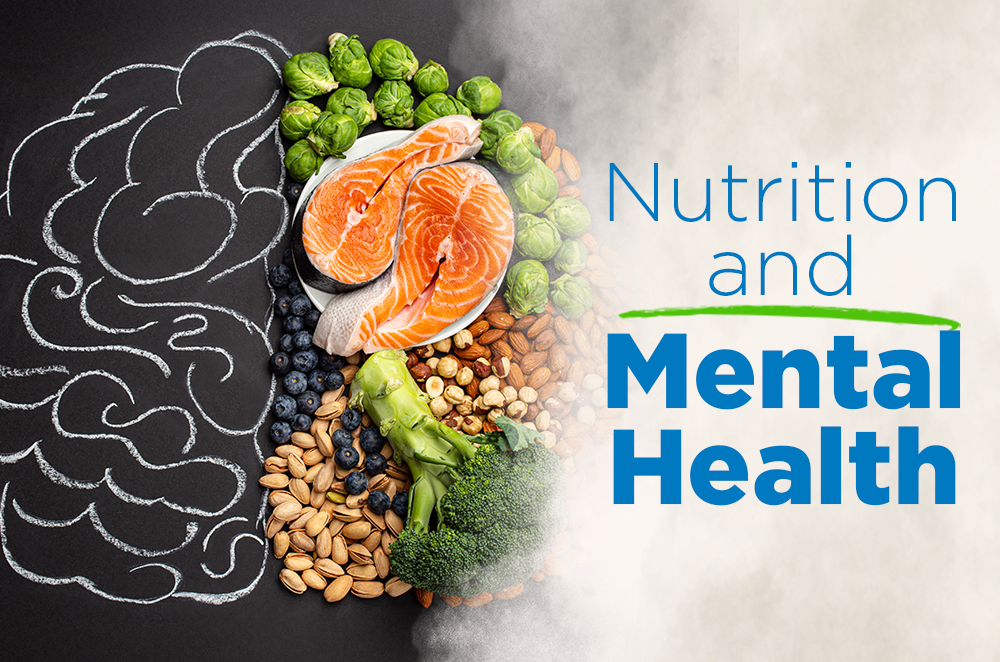
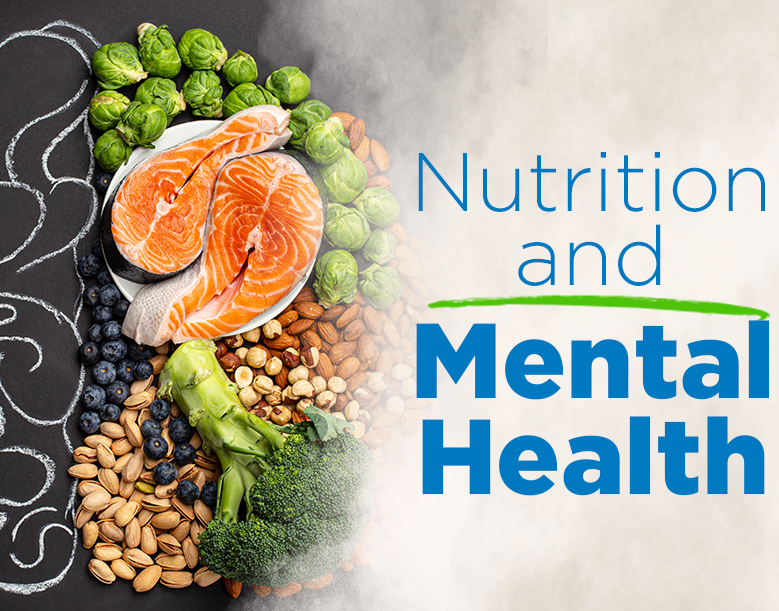
added images and resize cards

diff --git a/yourcourse.html b/yourcourse.html
@@ -53,7 +53,8 @@
                 <span class="hero-part-2">Placeholder text</span>
             </h1>
             <div class="text-center">
-                <a href="https://www.mind.org.uk/need-urgent-help/using-this-tool/" class="btn btn-light btn-lg" role="button" tabindex="0">Get Help Now</a>
+                <a href="https://www.mind.org.uk/need-urgent-help/using-this-tool/" class="btn btn-light btn-lg"
+                    role="button" tabindex="0">Get Help Now</a>
             </div>
         </div>
     </header>
@@ -68,44 +69,54 @@
                     <div class="col-lg-6 col-md-6 mb-4 d-flex align-items-stretch justify-content-center">
                         <div class="card shadow" tabindex="0">
                             <a href="https://www.sleepfoundation.org/mental-health" target="_blank">
-                                <img src="assets/images/sleep.webp" alt="Sleep" class="card-img-top img-fluid" style="height: auto; width: 100%;">
+                                <img src="assets/images/sleep.webp" alt="Sleep" class="card-img-top img-fluid"
+                                    style="height: auto; width: 100%;">
                             </a>
                             <div class="card-body">
                                 <h5 class="card-title">Sleep</h5>
-                                <p class="card-text">Placeholder.</p>
+                                <p class="card-text">Good sleep is essential for your mental
+                                    wellbeing.</p>
                             </div>
                         </div>
                     </div>
                     <div class="col-lg-6 col-md-6 mb-4 d-flex align-items-stretch justify-content-center">
                         <div class="card shadow" tabindex="0">
-                            <a href="https://www.nhs.uk/every-mind-matters/mental-wellbeing-tips/be-active-for-your-mental-health/" target="_blank">
-                                <img src="assets/images/mateswalk.jpg" alt="Group Run" class="card-img-top img-fluid" style="height: auto; width: 100%;">
+                            <a href="https://www.nhs.uk/every-mind-matters/mental-wellbeing-tips/be-active-for-your-mental-health/"
+                                target="_blank">
+                                <img src="assets/images/mateswalk.jpg" alt="Group Run" class="card-img-top img-fluid"
+                                    style="height: auto; width: 100%;">
                             </a>
                             <div class="card-body">
                                 <h5 class="card-title">Exercise</h5>
-                                <p class="card-text">Placeholder</p>
+                                <p class="card-text">Regular physical activity can improve your mood and reduce feelings
+                                    of anxiety.</p>
                             </div>
                         </div>
                     </div>
                     <div class="col-lg-6 col-md-6 mb-4 d-flex align-items-stretch justify-content-center">
                         <div class="card shadow" tabindex="0">
-                            <a href="https://www.mentalhealth.org.uk/explore-mental-health/a-z-topics/mindfulness" target="_blank">
-                                <img src="assets/images/mindful.jpg" class="card-img-top img-fluid" alt="Calm Pebbles" style="height: auto; width: 100%;">
+                            <a href="https://www.mentalhealth.org.uk/explore-mental-health/a-z-topics/mindfulness"
+                                target="_blank">
+                                <img src="assets/images/mindful.jpg" class="card-img-top img-fluid" alt="Calm Pebbles"
+                                    style="height: auto; width: 100%;">
                             </a>
                             <div class="card-body">
                                 <h5 class="card-title">Rest and Reset</h5>
-                                <p class="card-text">Placeholder text</p>
+                                <p class="card-text">Techniques like meditation, deep breathing, or yoga can help you stay grounded and reduce anxiety.</p>
                             </div>
                         </div>
                     </div>
                     <div class="col-lg-6 col-md-6 mb-4 d-flex align-items-stretch justify-content-center">
                         <div class="card shadow" tabindex="0">
-                            <a href="https://www.mentalhealth.org.uk/explore-mental-health/a-z-topics/diet-and-mental-health" target="_blank">
-                                <img src="assets/images/nutritionmh.png" class="card-img-top img-fluid" alt="Nutrition and Mental Health" style="height: auto; width: 100%;">
+                            <a href="https://www.mentalhealth.org.uk/explore-mental-health/a-z-topics/diet-and-mental-health"
+                                target="_blank">
+                                <img src="assets/images/nutritionmh.png" class="card-img-top img-fluid"
+                                    alt="Nutrition and Mental Health" style="height: auto; width: 100%;">
                             </a>
                             <div class="card-body">
                                 <h5 class="card-title">Nutrition and Mental Health</h5>
-                                <p class="card-text">Nutrition is essential for mental health because it provides the nutrients the brain needs to function optimally. A balanced diet improves mood, reduces stress, and supports cognitive function.</p>
+                                <p class="card-text">Nutrition is essential for mental health because it provides the
+                                    nutrients the brain needs to function optimally.</p>
                             </div>
                         </div>
                     </div>
@@ -115,27 +126,29 @@
     </main>
 
     <!-- Footer -->
- <footer class="footer text-center text-lg-start py-3 mt-auto fixed-bottom">
-    <div class="container">
-        <div class="row">
-            <div class="col-md-6 text-md-start mb-3 mb-md-0">
-                <p>© 2024 Isaac Nicholls</p>
-            </div>
-            <div class="col-md-6 text-md-end">
-                <a href="https://www.facebook.com/p/Mens-mental-health-awareness-100057517026083/" target="_blank" rel="noopener noreferrer"
-                    aria-label="Find out more on Facebook" class="me-2"><i class="fa-brands fa-facebook"></i></a>
-                <a href="https://x.com/YouMatterToMe0" target="_blank" rel="noopener noreferrer"
-                    aria-label="Find out more on Twitter" class="me-2"><i class="fa-brands fa-twitter"></i></a>
-                <a href="https://www.instagram.com/mental.health_awarenes/" target="_blank" rel="noopener noreferrer"
-                    aria-label="Find out more on Instagram" class="me-2"><i class="fa-brands fa-instagram"></i></a>
-                <a href="https://www.youtube.com/watch?v=eWZ_8iQi59c" target="_blank" rel="noopener noreferrer"
-                    aria-label="Find out more on Youtube" class="me-2"><i class="fa-brands fa-youtube"></i></a>
-                <a href="https://uk.movember.com/?home" target="_blank" rel="noopener noreferrer"
-                    aria-label="Find out more about movember" class="me-2"><i class="fa-solid fa-person"></i></a>
+    <footer class="footer text-center text-lg-start py-3 mt-auto fixed-bottom">
+        <div class="container">
+            <div class="row">
+                <div class="col-md-6 text-md-start mb-3 mb-md-0">
+                    <p>© 2024 Isaac Nicholls</p>
+                </div>
+                <div class="col-md-6 text-md-end">
+                    <a href="https://www.facebook.com/p/Mens-mental-health-awareness-100057517026083/" target="_blank"
+                        rel="noopener noreferrer" aria-label="Find out more on Facebook" class="me-2"><i
+                            class="fa-brands fa-facebook"></i></a>
+                    <a href="https://x.com/YouMatterToMe0" target="_blank" rel="noopener noreferrer"
+                        aria-label="Find out more on Twitter" class="me-2"><i class="fa-brands fa-twitter"></i></a>
+                    <a href="https://www.instagram.com/mental.health_awarenes/" target="_blank"
+                        rel="noopener noreferrer" aria-label="Find out more on Instagram" class="me-2"><i
+                            class="fa-brands fa-instagram"></i></a>
+                    <a href="https://www.youtube.com/watch?v=eWZ_8iQi59c" target="_blank" rel="noopener noreferrer"
+                        aria-label="Find out more on Youtube" class="me-2"><i class="fa-brands fa-youtube"></i></a>
+                    <a href="https://uk.movember.com/?home" target="_blank" rel="noopener noreferrer"
+                        aria-label="Find out more about movember" class="me-2"><i class="fa-solid fa-person"></i></a>
+                </div>
             </div>
         </div>
-    </div>
-</footer>
+    </footer>
 
     <script src="https://cdn.jsdelivr.net/npm/bootstrap@5.3.3/dist/js/bootstrap.bundle.min.js"
         integrity="sha384-YvpcrYf0tY3lHB60NNkmXc5s9fDVZLESaAA55NDzOxhy9GkcIdslK1eN7N6jIeHz"

diff --git a/connect.html b/connect.html
@@ -50,26 +50,25 @@
         <div class="container">
             <h1 class="display-4">
                 <span class="hero-part-1">Placeholder</span>
-                <span class="hero-part-2">Placeholder</span>
             </h1>
             <p class="lead">We are dedicated to improving your overall wellbeing.</p>
-            <div class="text-center">
-                <a href="https://www.mind.org.uk/need-urgent-help/using-this-tool/" class="btn btn-light btn-lg" role="button" tabindex="0">Get Help Now</a>
-            </div>
         </div>
     </header>
 
     <!-- Main Section -->
     <main class="container my-5">
         <div class="container">
+            <div class="text-center">
+                <a href="https://www.mind.org.uk/need-urgent-help/using-this-tool/" class="btn btn-light btn-lg" role="button" tabindex="0">Get Help Now</a>
+            </div>
             <!-- Services Overview -->
             <section class="my-5">
                 <h2 class="display-5">Our Services</h2>
                 <div class="row justify-content-center g-4">
                     <div class="col-lg-6 col-md-6 mb-4 d-flex align-items-stretch justify-content-center">
-                        <div class="custom-card2 shadow" tabindex="0">
+                        <div class="card shadow" tabindex="0">
                             <a href="https://talkingtherapies.berkshirehealthcare.nhs.uk/">
-                                <img src="assets/images/talk2.jpg" alt="talking friends" class="card-img-top img-fluid">
+                                <img src="assets/images/guystalk.jpg" alt="talking friends" class="card-img-top">
                             </a>
                             <div class="card-body">
                                 <h5 class="card-title">It's good to talk</h5>
@@ -80,7 +79,7 @@
                     <div class="col-lg-6 col-md-6 mb-4 d-flex align-items-stretch justify-content-center">
                         <div class="card shadow" tabindex="0">
                             <a href="https://www.psychiatrycentre.co.uk/blog/goal-setting-a-practical-way-to-improve-your-mental-health/">
-                                <img src="assets/images/goalsetting.jpg" alt="writing in notebook" class="card-img-top img-fluid">
+                                <img src="assets/images/goals.jpg" alt="writing in notebook" class="card-img-top">
                             </a>
                             <div class="card-body">
                                 <h5 class="card-title">Setting Goals</h5>

diff --git a/contact.html b/contact.html
@@ -17,6 +17,8 @@
 <body>
     <body class="d-flex flex-column min-vh-100">
 
+    
+
         <!-- Navigation -->
     <nav id="navbar" class="navbar navbar-expand-lg fixed-top" data-bs-theme="dark">
         <div class="container">
@@ -61,6 +63,9 @@
 <!-- Main Section -->
 <main class="container my-5">
     <div class="container">
+        <div class="text-center">
+            <a href="https://www.mind.org.uk/need-urgent-help/using-this-tool/" class="btn btn-light btn-lg" role="button" tabindex="0">Get Help Now</a>
+        </div>
         <div id="custom-contact" class="card shadow p-4">
             <h2 class="card-title text-center mb-4">Contact Us</h2>
             <p class="lead">Please get in touch, we would love to hear from you!</p>

diff --git a/assets/css/style.css b/assets/css/style.css
@@ -56,7 +56,7 @@ h1 {
 
 /* Style the hero connect section */
 .hero2 {
-    background: linear-gradient(rgba(0, 0, 0, 0.5), rgba(0, 0, 0, 0.5)), url('../images/hero2.jpg');
+    background: linear-gradient(rgba(0, 0, 0, 0.5), rgba(0, 0, 0, 0.5)), url('../images/happyguyscopy.png');
     background-size: cover;
     background-repeat: no-repeat;
     background-attachment: fixed;
@@ -72,7 +72,7 @@ h1 {
 
 .custom-card2 {
     background-color: #130a48;
-    color: whitesmoke;  
+    color: whitesmoke; 
 }
 
 .btn {
